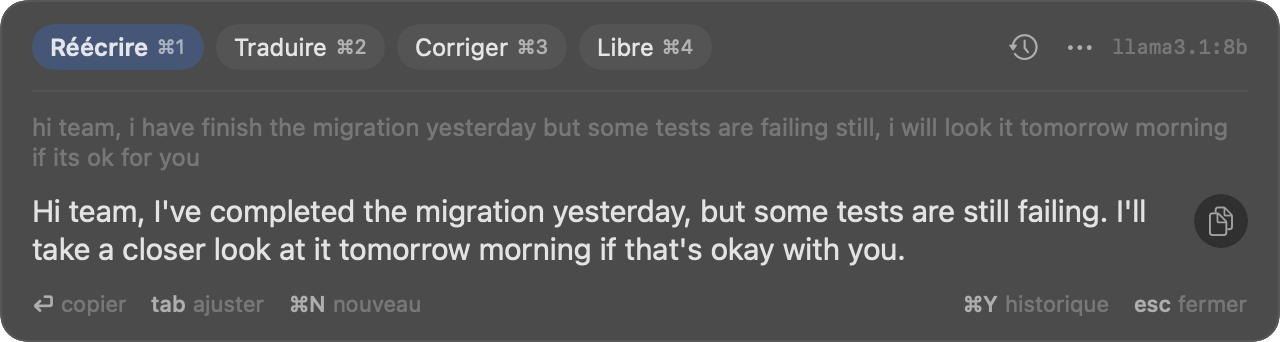
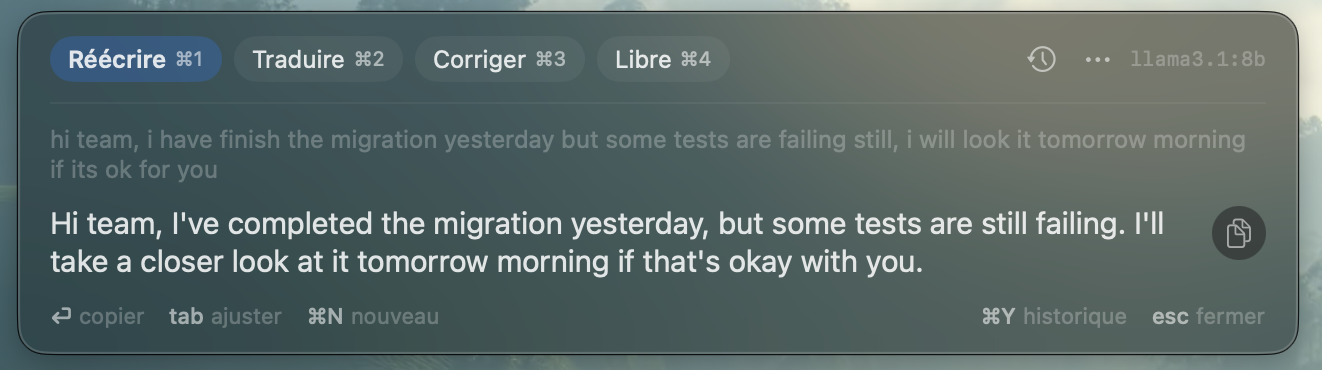
feat: better screenshots

diff --git a/README.md b/README.md
@@ -1,7 +1,5 @@
 # Verto
 
-*Lire en [français](README.fr.md).*
-
 A tiny Spotlight-style window for macOS that rewrites, translates or corrects text with a **local LLM**. Press a hotkey, paste, hit ⏎, copy.
 
 ![Verto rewriting a sentence](docs/rewrite.png)
@@ -53,7 +51,13 @@ Press **⌥Space**, paste or type your text, press **⏎**. Then:
 | `⌘,` or `⋯` | app menu: edit/reload config, show/hide menu bar icon, quit |
 | `esc` | close (the conversation is kept until `⌘N`) |
 
-![Adjust palette](docs/palette.png)
+**Translate, then pick another language in the adjust palette (`tab`):**
+
+![Translating, with the adjust palette open](docs/translate.png)
+
+**History (`⌘Y`):**
+
+![History](docs/history.png)
 
 The menu bar icon can be hidden from its menu. To bring it back: `⌘,` in the window → *Afficher l'icône…*, or simply open `Verto.app` again.
 
